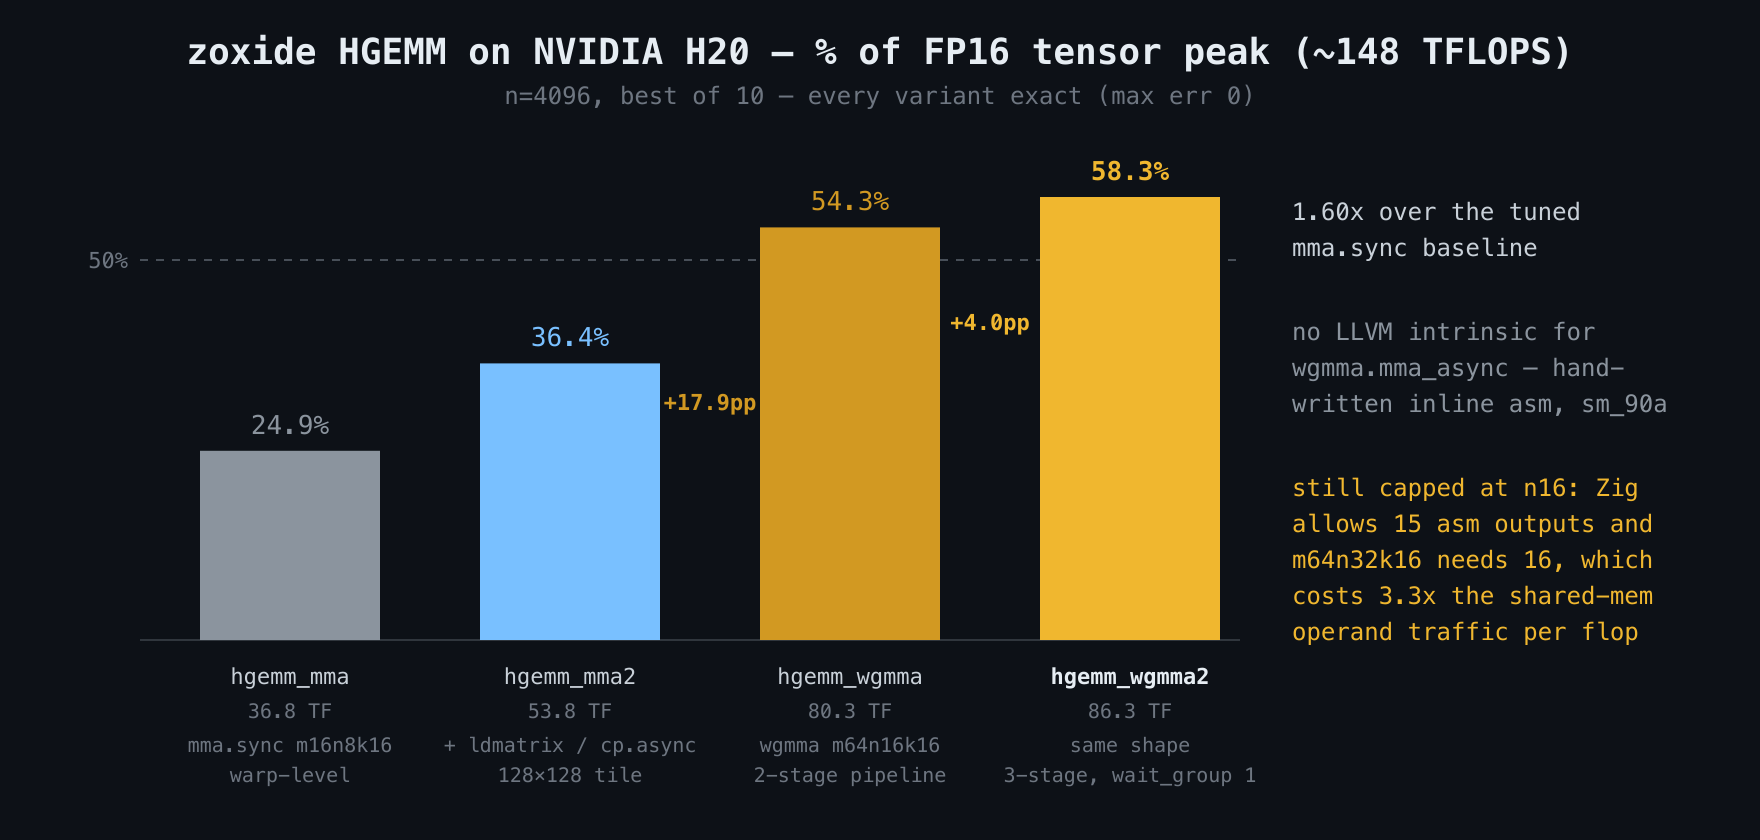
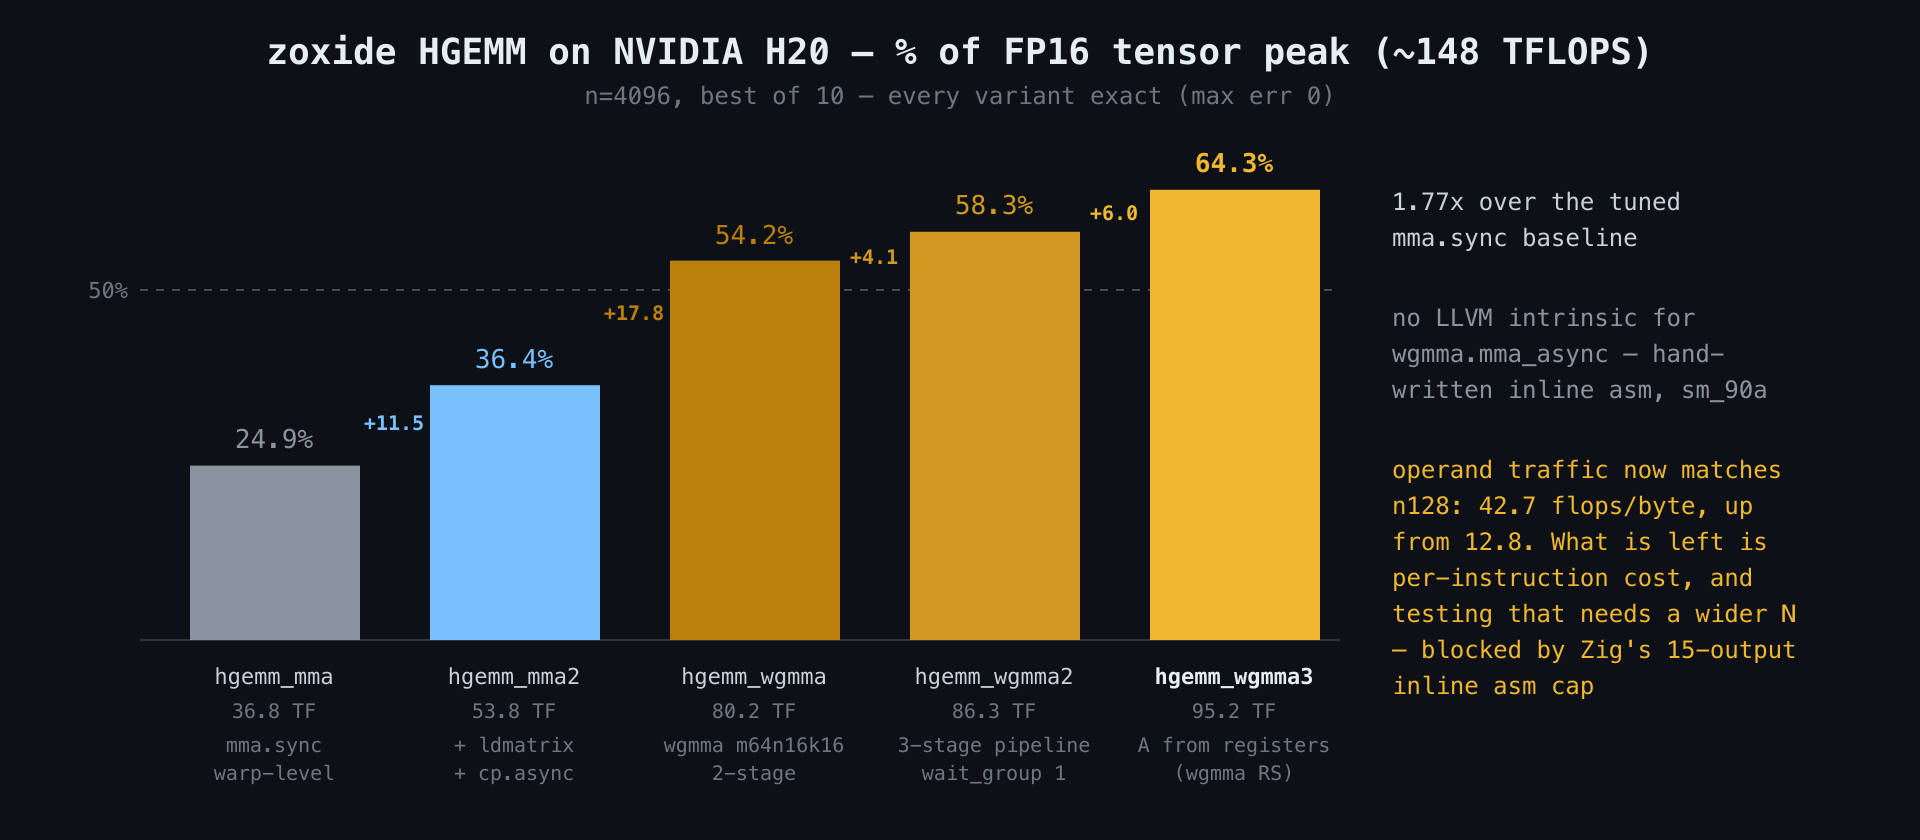
release v0.0.9-alpha: A from registers verified — 95.2 TF, 64.3% of FP16 peak
Pod A/B on H20, n=4096, identical shape across all three:

  hgemm_wgmma   SS, 2-stage        80241 GFLOPS  54.2%  err 0
  hgemm_wgmma2  SS, 3-stage        86279 GFLOPS  58.3%  err 0
  hgemm_wgmma3  A in regs, 3-stage 95175 GFLOPS  64.3%  err 0

+6.0pp, cumulative 1.77x over the mma.sync baseline.

This confirms the correction to my own attribution. Last round eliminated the
pipeline, global traffic and warpgroup concurrency, narrowed the cause to "the
n16 shape", and I then treated that as atomic — asserting the operand-traffic
penalty was invariant to tile shape and could only be fixed by a wider N, hence
only by patching the compiler. Wrong: the shape had two separable components,
and operand traffic had a second solution that ships today. Elimination points
at a direction; it does not substitute for decomposing the mechanism. The
falsified claim is corrected in place in docs/upstream-asm-output-limit.md
rather than quietly dropped.

The patch's rationale is stronger for it. Operand traffic now matches what a
wide-N instruction would demand (42.7 flops/byte, up from 12.8) and the kernel
is still 35.7pp off peak, so the remainder has to be per-instruction cost —
eight instructions doing one instruction's work — and measuring that requires
the wider N the cap forbids. The argument moved from "quantify what we suspect"
to "the operand explanation is spent and we are barred from testing the rest".

diff --git a/README.md b/README.md
@@ -184,6 +184,7 @@ SGEMM (C = A·B, square f32) harness with CUDA event timing:
 ./zoxide bench hgemm_mma2.ptx --n 4096 --iters 10   # + ldmatrix, 128x128 tile, cp.async double buffer
 ./zoxide bench hgemm_wgmma.ptx  --n 4096 --iters 10 --arch sm_90a   # warpgroup MMA (wgmma.mma_async)
 ./zoxide bench hgemm_wgmma2.ptx --n 4096 --iters 10 --arch sm_90a   # + 3-stage pipeline
+./zoxide bench hgemm_wgmma3.ptx --n 4096 --iters 10 --arch sm_90a   # + A from registers (RS)
 ```
 
 - `sgemm_naive.zig`: one thread per C element, direct global loads (baseline).
@@ -251,8 +252,8 @@ reg 15319 (34.8%) of the ~44 TFLOPS FP32 peak; reg verified at n=4000
   kernel therefore tiles n16 eight times to cover N=128, re-reading the A
   tile from shared memory 8x per K-stage instead of once. The 54.3% above is
   achieved *with* that handicap; see `docs/upstream-asm-output-limit.md`.
-- `hgemm_wgmma2.zig`: same shape, 3-stage pipeline. **86.3 TFLOPS (58.3% of
-  FP16 tensor peak), exact results** — 1.60x over `hgemm_mma2`.
+- `hgemm_wgmma2.zig`: same shape, 3-stage pipeline. 86.3 TFLOPS (58.3% of FP16
+  tensor peak), exact results — 1.60x over `hgemm_mma2`.
 
   `hgemm_wgmma` ended every K-stage with `wgmma.wait_group 0`, draining the
   tensor core. With two buffers it had no choice: the buffer about to be
@@ -274,6 +275,33 @@ reg 15319 (34.8%) of the ~44 TFLOPS FP32 peak; reg verified at n=4000
   conflict-free when a tile retains a wide row pitch, but these tiles are
   core-matrix packed, and 128 contiguous bytes against 32 banks x 4 B already
   sweeps every bank exactly once.
+- `hgemm_wgmma3.zig`: A moved from shared memory into registers (`wgmma` RS
+  form). **95.2 TFLOPS (64.3% of FP16 tensor peak), exact results** — 1.77x over
+  `hgemm_mma2`.
+
+  In the all-shared form each of the 8 wgmma covering a 128-wide tile re-reads
+  the whole A tile, so a K-stage pulls 20480 B out of shared memory. Loading A
+  once into registers leaves 6144 B — exactly what a single `m64n128k16` would
+  read, 42.7 flops/byte against 12.8. The RS form still has only 8 accumulators,
+  so it fits the 15-output asm cap that blocks the wide shapes.
+
+  A no longer feeds a descriptor, so it drops core-matrix packing for the plain
+  `[64][16]` f16 layout `ldmatrix` wants. CUTLASS's `ALayout_64x16` turns out to
+  be the `mma.sync m16n8k16` A-fragment layout applied to each warp's own 16
+  rows — one `ldmatrix.x4` — so `hgemm_mma2`'s addressing is reused verbatim.
+
+  An in-flight wgmma reads its A registers *after* issuing, so with
+  `wait_group 1` leaving the previous stage running the fragments have to be
+  double-buffered, and two things in the generated PTX had to be fixed before
+  that held: a runtime array index pushed the fragments into local memory, and
+  the register allocator then recycled each fragment's registers right after its
+  last wgmma, collapsing the double buffer. See the comments in the kernel and
+  `wgmma.fenceFragment`.
+
+  Operand traffic now matches what a wide-N instruction would demand and the
+  kernel is still 35.7pp off peak, so what remains is per-instruction cost —
+  eight instructions doing one instruction's work. Measuring that needs a wider
+  N, which `docs/upstream-asm-output-limit.md` explains we cannot express.
 
 If the pod has Nsight Compute, profile with:
 
@@ -316,7 +344,7 @@ to look for). Example: `src/examples/debug_print.zig`.
 Easiest path — one bundle, three commands on the pod:
 
 ```sh
-curl -LO https://github.com/zig-ecosystem/zoxide/releases/download/v0.0.8-alpha/zoxide-linux-x64.tar.gz
+curl -LO https://github.com/zig-ecosystem/zoxide/releases/download/v0.0.9-alpha/zoxide-linux-x64.tar.gz
 tar xzf zoxide-linux-x64.tar.gz   # ./zoxide ./kernels/ ./scripts/
 ./scripts/pod-verify.sh ./zoxide ./kernels
 ```

diff --git a/docs/upstream-asm-output-limit.md b/docs/upstream-asm-output-limit.md
@@ -84,6 +84,8 @@ out of reach at 32; lifting that too would additionally require widening
 | --- | --- | --- | --- |
 | `hgemm_mma2` | `mma.sync m16n8k16` | 53839 | 36.4% |
 | `hgemm_wgmma` | `wgmma.mma_async m64n16k16` | 80308 | 54.3% |
+| `hgemm_wgmma2` | + 3-stage pipeline | 86279 | 58.3% |
+| `hgemm_wgmma3` | + A from registers (RS) | 95175 | 64.3% |
 
 So even the narrowest wgmma shape — the only one Zig can express — is worth
 1.49x over a tuned `mma.sync` kernel, at exact results. A 3-stage pipeline then
@@ -101,17 +103,36 @@ been eliminated by experiment on H20 (details in `docs/verification/`):
 | too few independent warpgroups | eliminated — 12 blocks resident per SM is 12 independent wgmma streams, 75% thread occupancy |
 | **per-instruction efficiency of n16** | **the only candidate left** |
 
-Note also that the 3.3x operand-traffic penalty is *invariant to tile shape*:
-widening M or N changes how many blocks run, not how many times each wgmma
-re-reads its A tile. Only a wider N **per instruction** changes it. So with the
-cap in place there is nothing left to tune at the tiling level — which is a
-concrete, measured statement that a compiler limit, not the hardware and not the
-kernel, is what bounds Zig on this workload.
+### Correction, and why the case is now stronger
 
-This also resolves a circularity I previously flagged. Quantifying the cap's cost
-needs `m64n64k16`, which needs the patch, which I had wanted the cost figure to
-justify. The elimination above justifies the patch on its own: it is now both the
-measuring instrument and the likely fix.
+An earlier revision of this document claimed the 3.3x operand-traffic penalty was
+*invariant to tile shape*, so that only a wider N per instruction could fix it
+and nothing was left to tune below the cap. That was wrong. It reasoned entirely
+inside the all-shared (SS) form of `wgmma`. The RS form takes A from registers
+and still has only 8 accumulators for `m64n16k16`, so it fits the cap:
+
+| form | shared reads per K-stage | flops/byte |
+| --- | --- | --- |
+| all-shared n16 | 8 × (A 2048 + B 512) = 20480 B | 12.8 |
+| A in registers (RS) | A 2048 + 8 × 512 = 6144 B | 42.7 |
+| one n128, all-shared | A 2048 + B 4096 = 6144 B | 42.7 |
+
+Loading A once per stage and feeding all eight wgmma from registers reads exactly
+what a single `m64n128k16` would. Measured on H20 this is worth +6.0pp, taking
+`hgemm_wgmma3` to 95175 GFLOPS (64.3% of peak), still exact.
+
+The lesson is about method: elimination narrowed the cause to "the n16 shape",
+and I then treated that as an atomic explanation. It was not — it had at least
+two separable components, operand traffic and per-instruction cost, and the first
+had a second solution that did not need this patch.
+
+That makes the case for raising the cap sharper rather than weaker. **Operand
+traffic now matches what a wide-N instruction would demand, and the kernel is
+still 35.7pp off peak.** Whatever remains is per-instruction cost: eight
+instructions doing one instruction's work. Testing that requires a wider N, which
+is precisely what the cap forbids. The argument used to be "quantify something we
+suspect dominates"; it is now "the operand-traffic explanation has been spent, so
+the rest has to be per-instruction, and we are barred from measuring it."
 
 ## Proposed change
 

diff --git a/docs/announcement.md b/docs/announcement.md
@@ -4,6 +4,36 @@
 
 ---
 
+## v0.0.9-alpha — A from registers, 64.3% of FP16 peak（2026-09-21）
+
+![hgemm progression](assets/hgemm-progression.svg)
+
+**95.2 TFLOPS（FP16 峰值 64.3%），结果精确，对 mma.sync 基线累计 1.77x。**
+
+这一轮的起点是纠正我自己上一轮的错误结论。当时我把剩余 41.7pp 全归给「n16 shape」，并断言「3.3 倍操作数流量对 tile 形状不变，只有单条指令的 N 变宽才能改变它，所以在 15 输出上限解除前 tile 层面没有可动的东西」。
+
+错了。我整个推理都待在 wgmma 的 **SS 形态**（A、B 都从共享内存取）里，漏掉了 **RS 形态**——A 从寄存器取，而 `m64n16k16` 的累加器仍然只有 8 个，**落在 15 输出限制内**。
+
+| 形态 | 每 K 段共享内存读取 | flops/byte |
+| --- | --- | --- |
+| SS n16 | 8 × (A 2048 + B 512) = 20480 B | 12.8 |
+| **RS n16（本轮）** | A 2048 + 8 × 512 = **6144 B** | **42.7** |
+| SS n128（需补丁） | A 2048 + B 4096 = 6144 B | 42.7 |
+
+A 每段只读一次、之后从寄存器喂给全部 8 条 wgmma，读取量与单条 `m64n128k16` 完全相同。实测值 6.0pp。
+
+方法上的教训：排除法把原因收敛到「shape」之后，我把它当成了不可分解的原因。它其实至少含两个可分的成分——操作数流量和单指令成本——而前者还有第二条解法。排除法指方向，不能代替对机制的分解。
+
+有两个 bug 只在读生成的 PTX 时才暴露。一是 `afrag[kt % 2]` 的运行时下标把寄存器数组赶进了 local memory（每轮 20 条 `st.local`，比想省掉的共享内存重读更糟）；二是即便改成双缓冲，寄存器分配器认为每个 fragment 在其最后一条 wgmma 之后即死亡，把物理寄存器回收给下一段，**悄悄把源码表达的双缓冲合并掉了**——而此时上一段的 wgmma 仍在异步读它。后者用 CUTLASS 的 `warpgroup_fence_operand` 手法（空 asm 带 `+r`）钉住。
+
+这同时让编译器补丁的理由变强：操作数流量既已与 n128 持平，却仍距峰值 35.7pp，剩下的只能是单指令成本（8 条指令做 1 条的事），而测量它必须把 N 变宽——正是 15 输出上限禁止的。
+
+发布文案（X 单帖）：
+
+> Zig on Hopper, 95.2 TFLOPS HGEMM — 64.3% of H20 FP16 tensor peak, exact, 1.77x over a tuned mma.sync kernel. This round came from being wrong: I had argued the n16 operand penalty needed a wider wgmma N. It needed A in registers instead, which fits the compiler's asm limits today. github.com/zig-ecosystem/zoxide
+
+---
+
 ## v0.0.8-alpha — 3-stage wgmma pipeline, 58.3% of FP16 peak（2026-09-21）
 
 ![hgemm progression](assets/hgemm-progression.svg)

diff --git a/docs/ROADMAP.md b/docs/ROADMAP.md
@@ -15,6 +15,7 @@
 | v0.0.6-alpha | FP16 tensor core（mma.sync）：hgemm_mma2 53.8 TF / 36.4% 峰值，结果精确 |
 | v0.0.7-alpha | Hopper warpgroup MMA：hgemm_wgmma 80.3 TF / 54.3% 峰值，结果精确，1.49x |
 | v0.0.8-alpha | wgmma 三级流水：hgemm_wgmma2 86.3 TF / 58.3% 峰值，结果精确，累计 1.60x |
+| v0.0.9-alpha | wgmma RS（A 进寄存器）：hgemm_wgmma3 95.2 TF / 64.3% 峰值，结果精确，累计 1.77x |
 
 ## 规划
 
@@ -57,8 +58,10 @@
 - [x] ~~M=128 / 双 warpgroup~~ —— **撤销**。立项理由是降低全局流量，流量既已排除则理由不成立；
   也不能靠提高并发救场（并发同样已排除）。根本原因：**3.3 倍操作数流量比例对 tile 形状不变**，
   放宽 M/N 只改变 block 数量，不改变每条 wgmma 重读 A 的次数——只有单条指令的 N 变宽才改变它
-- [ ] **打补丁的 zig（output 上限 32）编 `m64n64k16`** —— 现在既是测量工具也是很可能的修复。
-  归因是排除法得来的，要确证只有真的编出 n64 跑一遍这一条路
+- [x] **A 进寄存器（wgmma RS）** —— +6.0pp，64.3%。这条推翻了上一轮「只有宽 N 能降操作数流量」
+  的断言：RS 形态累加器仍是 8 个，落在 15 输出限制内，而操作数流量已与 n128 持平（42.7 flops/byte）
+- [ ] **打补丁的 zig（output 上限 32）编 `m64n64k16`**。理由已升级：操作数流量既已与 n128 持平，
+  却仍距峰值 35.7pp，剩下的只能是单指令成本（8 条指令做 1 条的事），而测量它必须把 N 变宽
 - [ ] 上游提交（ziglang/zig issue 创建受限于 collaborator，走 `docs/drafts/` 里记录的 fallback 渠道）
 - [ ] TMA 替代 cp.async（与 n16 无关的独立方向）
 
